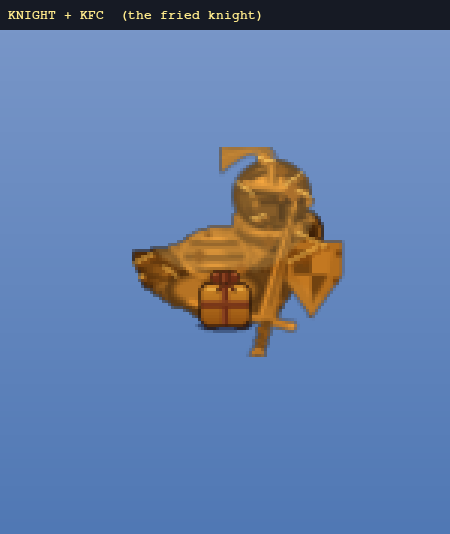
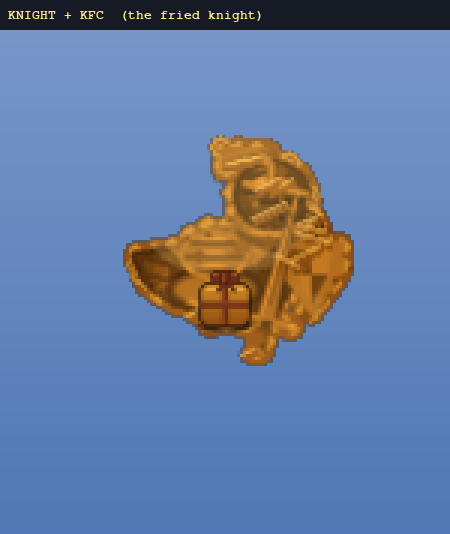
Fried knight: thicker crisp — battered crust edge + chunkier texture
The crisp read thin and left the silhouette unchanged. Add _crust_edge: dilate the
silhouette in crispy-dark and stud golden lumps along the rim for a THICK battered
coating that bulks the knight out. Bump the texture to chunky dark nuggets (r3-5)
and 2px crackle ridges. Fixed rng seeds keep crust + texture stable across wing
frames.

https://claude.ai/code/session_0198wUfDSqXDZqGjdP4sx98r

diff --git a/game/knight_skin.py b/game/knight_skin.py
@@ -260,32 +260,57 @@ def build_knight_frames():
     return [_build_knight_frame(f) for f in parrot._get_frames()]
 
 
+def _crust_edge(out, t, lump_p):
+    """A THICK battered crust ring behind the knight: the silhouette dilated by
+    `t`px in crispy-dark, then golden lumps studded along the rim, so the fried
+    coating reads thick (and bulks the silhouette out a touch) instead of a thin
+    skin. Lumps share the dilation's crispy palette so it reads as one coating."""
+    w, h = out.get_size()
+    dark = _amask(out)
+    dark.fill((*_CRISPY_DARK, 255), special_flags=pygame.BLEND_RGBA_MULT)
+    crust = pygame.Surface((w, h), pygame.SRCALPHA)
+    for dx in range(-t, t + 1):
+        for dy in range(-t, t + 1):
+            if dx * dx + dy * dy <= t * t and (dx or dy):
+                crust.blit(dark, (dx, dy))
+    rng = random.Random(0xC2057)
+    for x, y in pygame.mask.from_surface(out, 40).outline(6):
+        if rng.random() < lump_p:
+            pygame.draw.circle(crust, _CRISPY_GOLD, (x, y), rng.randint(2, 4))
+            pygame.draw.circle(crust, _CRISPY_DARK, (x, y), rng.randint(2, 4), 1)
+    return crust
+
+
 def _deep_fry(frame):
     """Put a whole knight frame through the SAME deep-fry the fried parrot gets
     (parrot._build_fried_frame): recolor its luminance onto the crispy batter
-    ramp, then add fried TEXTURE — scattered crispy spots, crackle lines (dark
-    valley + light ridge = raised batter) and a golden grease sheen — all clamped
-    to the silhouette. So helm, shield, sword, armour and body read battered-
-    crispy, not merely gold-tinted. A fixed rng seed keeps the texture identical
-    across the 4 wing frames (the parrot's spots/crackle are likewise fixed)."""
+    ramp, wrap it in a THICK battered crust edge, then add fried TEXTURE —
+    chunky crackle lines (dark valley + light ridge = raised batter), crispy
+    spots, dark nuggets and a golden grease sheen — all clamped to the silhouette.
+    So helm, shield, sword, armour and body read thickly battered-crispy, not
+    gold-tinted. Fixed rng seeds keep texture + lumps stable across the 4 wing
+    frames (the parrot's spots/crackle are likewise fixed)."""
     out = _recolor(frame, _CRISPY_GOLD, add=(44, 20, 2))   # rich golden-brown batter
+    crust = _crust_edge(out, 3, 0.8)                       # thick coating behind
+    crust.blit(out, (0, 0))
+    out = crust
     w, h = out.get_size()
     tex = pygame.Surface((w, h), pygame.SRCALPHA)
     rng = random.Random(0x5C0FFEE)
-    for _ in range(12):                                    # dark crispy crust blotches
+    for _ in range(14):                                    # chunky dark crust nuggets
         pygame.draw.circle(tex, _CRISPY_DARK,
-                           (rng.randint(0, w - 1), rng.randint(0, h - 1)), rng.randint(2, 3))
-    for _ in range(66):                                    # fine crispy spots
+                           (rng.randint(0, w - 1), rng.randint(0, h - 1)), rng.randint(3, 5))
+    for _ in range(60):                                    # fine crispy spots
         pygame.draw.circle(tex, _CRISPY_SPOT,
                            (rng.randint(0, w - 1), rng.randint(0, h - 1)), rng.randint(1, 2))
-    for _ in range(24):                                    # crackle: dark valley + light ridge
-        x1, y1 = rng.randint(2, w - 9), rng.randint(2, h - 9)
-        dx, dy = rng.randint(4, 9), rng.randint(-4, 4)
-        pygame.draw.line(tex, _CRISPY_DARK, (x1, y1), (x1 + dx, y1 + dy), 1)
+    for _ in range(22):                                    # thick crackle: dark valley + light ridge
+        x1, y1 = rng.randint(2, w - 12), rng.randint(2, h - 12)
+        dx, dy = rng.randint(5, 11), rng.randint(-5, 5)
+        pygame.draw.line(tex, _CRISPY_DARK, (x1, y1), (x1 + dx, y1 + dy), 2)
         pygame.draw.line(tex, _CRISPY_LIGHT, (x1 - 1, y1 - 1), (x1 + dx - 1, y1 + dy - 1), 1)
     tex.blit(_amask(out), (0, 0), special_flags=pygame.BLEND_RGBA_MIN)
     out.blit(tex, (0, 0))
-    _sheen(out, (255, 225, 145), (235, 180, 90), top_a=52, bot_a=34)
+    _sheen(out, (255, 225, 145), (235, 180, 90), top_a=48, bot_a=30)
     return out
 
 
